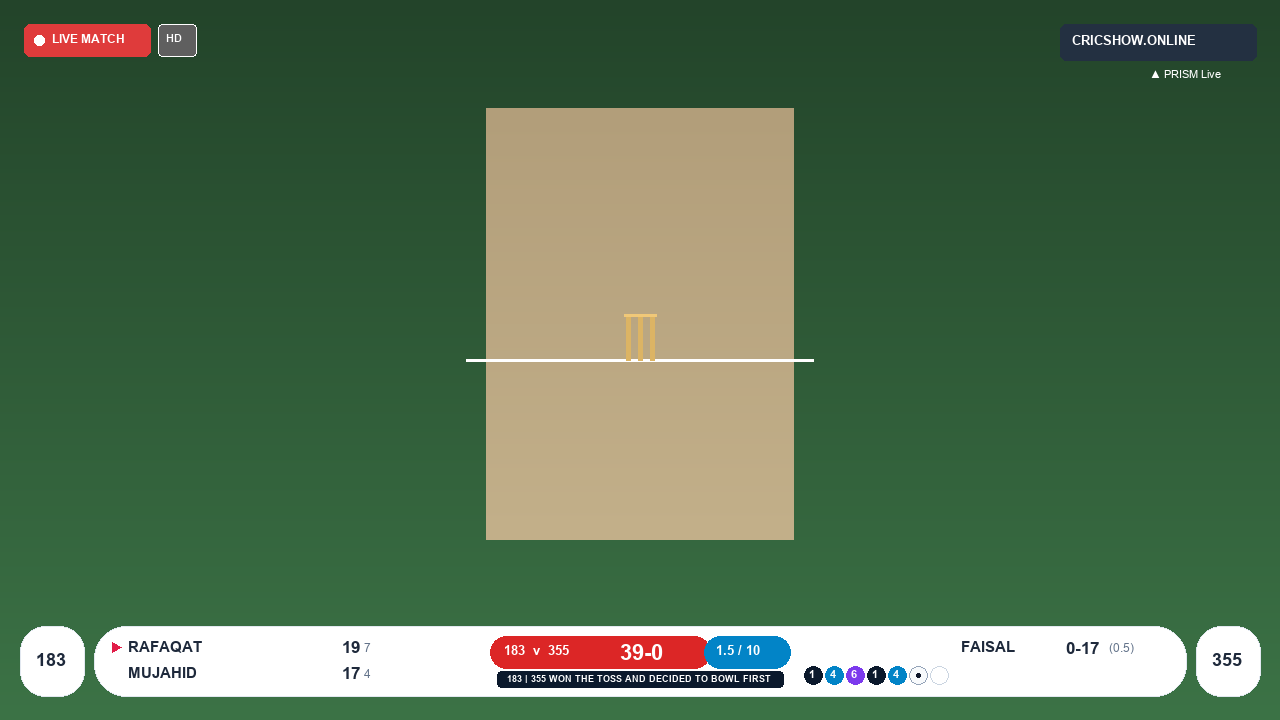
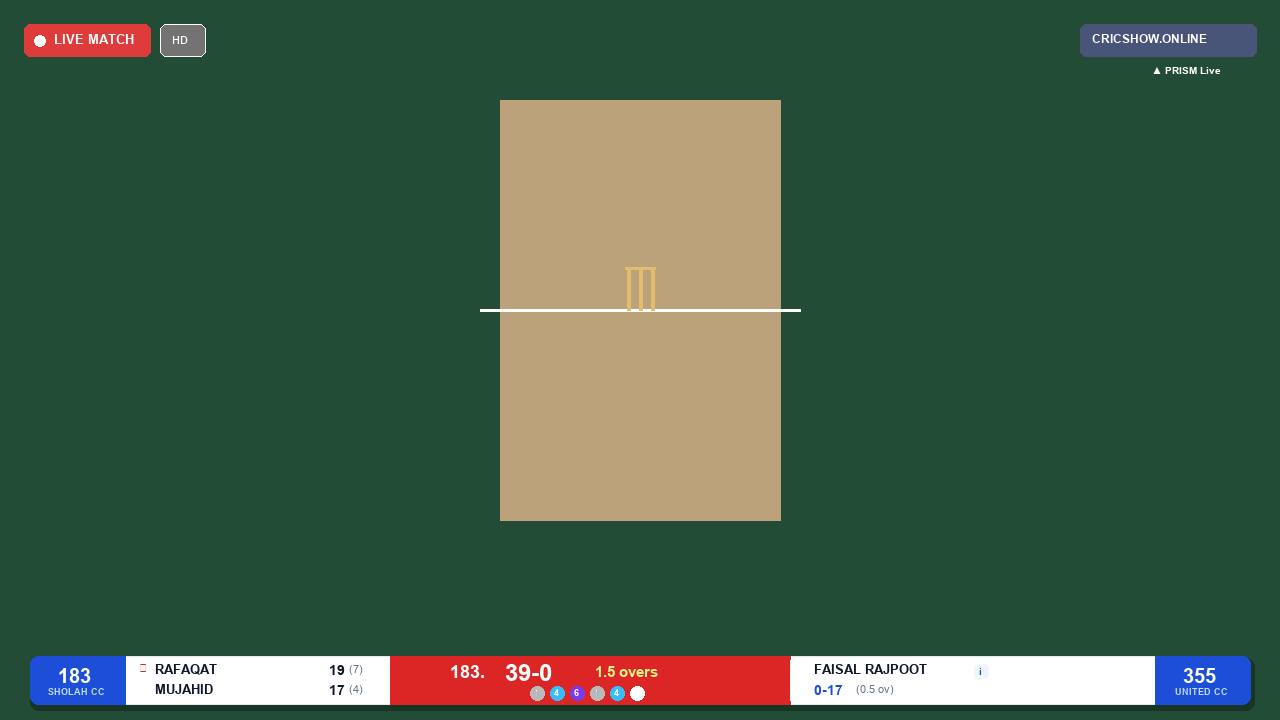
feat(broadcast): update broadcast bar with white-blue-red palette, side teams, and lower height

Changed region(s): [[0.0, 0.1222, 1.0, 1.0], [0.8125, 0.0306, 1.0, 0.1222], [0.0312, 0.0306, 0.1875, 0.0611]]

diff --git a/resources/views/embed/scoreboard.blade.php b/resources/views/embed/scoreboard.blade.php
@@ -127,67 +127,59 @@ html, body {
 .fade { transition: opacity .16s ease; }
 .fade.out { opacity: .45; }
 
-/* ══ broadcast — the full bottom bar ═══════════════════════════ */
+/* ══ broadcast — the full bottom bar (White, Blue, Red Theme) ═══════════════════════════ */
 
 [data-layout="broadcast"] body { padding: 0; }
 [data-layout="broadcast"] .board {
     display: flex; align-items: stretch;
-    height: 170px; max-width: 1920px;
-    border-radius: 14px; overflow: hidden;
+    height: 135px; max-width: 1920px;
+    border-radius: 12px; overflow: hidden;
+    background: #FFFFFF;
     box-shadow: 0 14px 44px rgba(0,0,0,.42);
+    border: 1px solid #E2E8F0;
 }
-.bc-team {
-    width: 300px; flex: 0 0 auto;
-    display: flex; flex-direction: column; justify-content: center; gap: 6px;
-    padding: 16px 22px; color: #fff;
-    background: linear-gradient(135deg, var(--team-colour, var(--accent)), rgba(9,17,28,.96));
+.bc-team-badge {
+    width: 220px; flex: 0 0 auto;
+    display: flex; flex-direction: column; justify-content: center; align-items: center; gap: 4px;
+    padding: 12px 18px; color: #FFFFFF;
+    background: #1D4ED8;
 }
-.bc-team.idle { background: var(--panel-2); }
-.bc-team .row  { display: flex; align-items: center; gap: 12px; }
-.bc-team .crest { width: 52px; height: 52px; font-size: 17px; background: rgba(255,255,255,.18); }
-.bc-team .code { font-size: 24px; font-weight: 900; letter-spacing: .6px; line-height: 1; }
-.bc-team .name { font-size: 12px; font-weight: 600; opacity: .8; margin-top: 3px;
-                 white-space: nowrap; overflow: hidden; text-overflow: ellipsis; }
-.bc-team .score { font-size: 42px; font-weight: 900; letter-spacing: -1.6px; line-height: 1; }
-.bc-team .overs { font-size: 14px; font-weight: 700; opacity: .78; }
-.bc-team .yet   { font-size: 15px; font-weight: 700; opacity: .68; }
+.bc-team-badge .code { font-size: 36px; font-weight: 900; letter-spacing: .6px; line-height: 1; }
+.bc-team-badge .name { font-size: 13px; font-weight: 700; opacity: .88; text-transform: uppercase;
+                 white-space: nowrap; overflow: hidden; text-overflow: ellipsis; max-width: 190px; }
 
-.bc-mid {
-    flex: 1; min-width: 0;
-    display: flex; flex-direction: column; justify-content: center; gap: 9px;
-    padding: 14px 26px; background: var(--panel); color: var(--panel-text);
-}
-.bc-mid .top    { display: flex; align-items: center; gap: 14px; }
-.bc-mid .status { flex: 0 0 auto; }
-.bc-mid .head   { font-size: 20px; font-weight: 800; letter-spacing: -.3px;
-                  white-space: nowrap; overflow: hidden; text-overflow: ellipsis; }
-.bc-mid .sub    { font-size: 14px; font-weight: 700; color: #FCD34D; }
-
-.bc-players { display: flex; gap: 26px; flex-wrap: wrap; }
-.bc-player  { display: flex; align-items: baseline; gap: 8px; font-size: 14px; }
-.bc-player .who  { font-weight: 700; color: #fff; }
-.bc-player .fig  { font-weight: 800; color: #6EE7B7; }
-.bc-player .role { font-size: 10px; font-weight: 800; letter-spacing: 1px;
-                   color: var(--panel-mute); text-transform: uppercase; }
-.bc-player.striker .who::after { content: ' ●'; color: #6EE7B7; font-size: 10px; }
-
-.bc-meta { display: flex; gap: 20px; flex-wrap: wrap; font-size: 12px; color: var(--panel-mute); }
-.bc-meta b { color: #fff; font-weight: 800; }
-
-.bc-right {
-    width: 250px; flex: 0 0 auto;
+.bc-batters {
+    flex: 1.25; min-width: 0;
     display: flex; flex-direction: column; justify-content: center; gap: 10px;
-    padding: 14px 20px; background: var(--panel-2); color: var(--panel-text);
-    border-left: 1px solid var(--panel-line);
+    padding: 12px 24px; background: #FFFFFF; color: #0F172A;
+    border-right: 1px solid #F1F5F9;
 }
-.bc-right .label { font-size: 10px; font-weight: 800; letter-spacing: 1.1px;
-                   color: var(--panel-mute); text-transform: uppercase; }
-.bc-overs { display: flex; gap: 6px; }
-.bc-over  { flex: 1; text-align: center; padding: 5px 0; border-radius: 7px;
-            background: rgba(255,255,255,.07); font-size: 12px; font-weight: 800; }
-.bc-over.wkt { background: rgba(239,68,68,.28); color: #FCA5A5; }
-.bc-over small { display: block; font-size: 8.5px; font-weight: 700;
-                 color: var(--panel-mute); margin-top: 1px; }
+.bc-batter { display: flex; align-items: center; justify-content: space-between; font-size: 19px; font-weight: 800; }
+.bc-batter .name { display: flex; align-items: center; gap: 6px; color: #0F172A; }
+.bc-batter.striker .name::before { content: '▶'; color: #DC2626; font-size: 14px; }
+.bc-batter .score { font-weight: 900; color: #0F172A; }
+.bc-batter .balls { font-size: 14px; font-weight: 700; color: #64748B; margin-left: 4px; }
+
+.bc-score-capsule {
+    flex: 1.45; min-width: 0;
+    display: flex; flex-direction: column; justify-content: center; align-items: center; gap: 6px;
+    padding: 12px 24px; background: #DC2626; color: #FFFFFF;
+}
+.bc-score-main { display: flex; align-items: baseline; gap: 10px; }
+.bc-score-team { font-size: 24px; font-weight: 900; color: rgba(255,255,255,.94); }
+.bc-score-val  { font-size: 46px; font-weight: 900; letter-spacing: -1.2px; line-height: 1; color: #FFFFFF; }
+.bc-score-ov   { font-size: 20px; font-weight: 800; color: #FEF08A; }
+.bc-score-sub  { font-size: 13px; font-weight: 800; color: rgba(255,255,255,.9); letter-spacing: .4px; }
+
+.bc-bowler {
+    flex: 1.15; min-width: 0;
+    display: flex; flex-direction: column; justify-content: center; gap: 8px;
+    padding: 12px 24px; background: #FFFFFF; color: #0F172A;
+    border-left: 1px solid #F1F5F9;
+}
+.bc-bowler .name { font-size: 18px; font-weight: 800; color: #0F172A; }
+.bc-bowler .fig  { font-size: 22px; font-weight: 900; color: #1D4ED8; }
+.bc-bowler .ov   { font-size: 14px; font-weight: 700; color: #64748B; margin-left: 4px; }
 
 /* ══ lower — compact third ═════════════════════════════════════ */
 
@@ -415,76 +407,69 @@ html, body {
     function renderBroadcast(d) {
         var c = d.current;
         var bat = battingSide(d);
+        var bTeam = d.teams[bat];
+        var bowlSide = (bat === 'home') ? 'away' : 'home';
+        var oTeam = d.teams[bowlSide];
 
-        var team = function (key) {
-            var t = d.teams[key];
-            var on = t.batting;
-            return '<div class="bc-team' + (on ? '' : ' idle') + '" style="--team-colour:' + esc(t.colour) + '">'
-                + '<div class="row">' + crest(t) + '<div style="min-width:0">'
-                +   '<div class="code">' + esc(t.short) + '</div>'
-                +   '<div class="name">' + esc(t.name) + '</div>'
-                + '</div></div>'
-                + '<div class="row">'
-                +   (t.score
-                        ? '<span class="score">' + esc(t.score) + '</span><span class="overs">(' + esc(t.overs) + ')</span>'
-                        : '<span class="yet">yet to bat</span>')
-                + '</div></div>';
-        };
+        // 1. Left Team (Batting Team)
+        var left = '<div class="bc-team-badge">'
+                 +   '<div class="code">' + esc(bTeam.short) + '</div>'
+                 +   '<div class="name">' + esc(bTeam.name) + '</div>'
+                 + '</div>';
 
-        var players = '';
+        // 2. Batters Section (2 batters with score and balls played)
+        var batters = '<div class="bc-batters">';
         if (c && c.striker) {
-            players += '<div class="bc-player striker"><span class="role">Bat</span>'
-                    +  '<span class="who">' + esc(c.striker.short) + '</span>'
-                    +  '<span class="fig">' + esc(c.striker.display) + '</span></div>';
+            batters += '<div class="bc-batter striker">'
+                    +    '<span class="name">' + esc(c.striker.short) + '</span>'
+                    +    '<span class="score">' + esc(c.striker.runs) + '<span class="balls">(' + esc(c.striker.balls) + ')</span></span>'
+                    +  '</div>';
+        } else {
+            batters += '<div class="bc-batter"><span class="name">Striker</span><span class="score">-</span></div>';
         }
         if (c && c.non_striker) {
-            players += '<div class="bc-player"><span class="role">Bat</span>'
-                    +  '<span class="who">' + esc(c.non_striker.short) + '</span>'
-                    +  '<span class="fig">' + esc(c.non_striker.display) + '</span></div>';
+            batters += '<div class="bc-batter">'
+                    +    '<span class="name" style="padding-left:14px">' + esc(c.non_striker.short) + '</span>'
+                    +    '<span class="score">' + esc(c.non_striker.runs) + '<span class="balls">(' + esc(c.non_striker.balls) + ')</span></span>'
+                    +  '</div>';
+        } else {
+            batters += '<div class="bc-batter"><span class="name" style="padding-left:14px">Non-Striker</span><span class="score">-</span></div>';
         }
+        batters += '</div>';
+
+        // 3. Center Red Capsule (Total Score & Overs with Batting Team name/code)
+        var scoreLine = (bTeam.score || '0-0').replace('/', '-');
+        var scoreCapsule = '<div class="bc-score-capsule">'
+                         +   '<div class="bc-score-main">'
+                         +     '<span class="bc-score-team">' + esc(bTeam.short) + '.</span>'
+                         +     '<span class="bc-score-val">' + esc(scoreLine) + '</span>'
+                         +     '<span class="bc-score-ov">' + esc(bTeam.overs || '0.0') + ' ov</span>'
+                         +   '</div>';
+        if (c && c.this_over && c.this_over.length) {
+            scoreCapsule += '<div class="balls" style="margin-top:2px">' + chips(c.this_over, 7) + '</div>';
+        } else {
+            scoreCapsule += '<div class="bc-score-sub">' + esc(d.status_line || (d.match.overs_per_side + ' OVERS MATCH')) + '</div>';
+        }
+        scoreCapsule += '</div>';
+
+        // 4. Bowler Figures Section
+        var bowler = '<div class="bc-bowler">';
         if (c && c.bowler) {
-            players += '<div class="bc-player"><span class="role">Bowl</span>'
-                    +  '<span class="who">' + esc(c.bowler.short) + '</span>'
-                    +  '<span class="fig">' + esc(c.bowler.line) + '</span></div>';
+            bowler += '<div class="name">' + esc(c.bowler.short) + '</div>'
+                   +  '<div class="fig">' + esc(c.bowler.wickets) + '-' + esc(c.bowler.runs)
+                   +  '<span class="ov">(' + esc(c.bowler.overs) + ')</span></div>';
+        } else {
+            bowler += '<div class="name">Bowler</div><div class="fig">0-0<span class="ov">(0.0)</span></div>';
         }
+        bowler += '</div>';
 
-        var meta = [];
-        var fact = function (label, value) { meta.push('<span>' + label + ' <b>' + value + '</b></span>'); };
-        if (c) {
-            fact('CRR', c.run_rate.toFixed(2));
-            if (c.required_rate != null && c.need > 0) fact('RRR', c.required_rate.toFixed(2));
-            if (c.partnership) fact('P\'ship', esc(c.partnership.display));
-            if (c.last_wicket) fact('Last wkt', esc(c.last_wicket.short + ' ' + c.last_wicket.runs));
-            if (c.projected)   fact('Proj', c.projected);
-            if (c.extras)      fact('Extras', c.extras);
-        }
+        // 5. Right Team (Bowling Team)
+        var right = '<div class="bc-team-badge">'
+                  +   '<div class="code">' + esc(oTeam.short) + '</div>'
+                  +   '<div class="name">' + esc(oTeam.name) + '</div>'
+                  + '</div>';
 
-        var right = '';
-        if (c) {
-            right = '<div><div class="label">This over</div><div class="balls" style="margin-top:7px">'
-                  + (chips(c.this_over, 8) || '<span style="font-size:12px;color:var(--panel-mute)">new over</span>')
-                  + '</div></div>';
-            if (c.recent_overs && c.recent_overs.length) {
-                right += '<div><div class="label">Recent overs</div><div class="bc-overs" style="margin-top:7px">'
-                       + c.recent_overs.map(function (o) {
-                             return '<div class="bc-over' + (o.wickets ? ' wkt' : '') + '">' + o.runs
-                                  + '<small>ov ' + o.over + '</small></div>';
-                         }).join('')
-                       + '</div></div>';
-            }
-        }
-
-        return team('home')
-            + '<div class="bc-mid">'
-            +   '<div class="top">' + statusPill(d)
-            +     '<span class="head">' + esc(d.headline) + '</span>'
-            +   '</div>'
-            +   (d.sub_headline ? '<div class="sub">' + esc(d.sub_headline) + '</div>' : '')
-            +   (players ? '<div class="bc-players">' + players + '</div>' : '')
-            +   (meta.length ? '<div class="bc-meta">' + meta.join('') + '</div>' : '')
-            + '</div>'
-            + team('away')
-            + (right ? '<div class="bc-right">' + right + '</div>' : '');
+        return left + batters + scoreCapsule + bowler + right;
     }
 
     /* ── lower third ───────────────────────────────────────── */

diff --git a/database/seeders/TeamSquadSeeder.php b/database/seeders/TeamSquadSeeder.php
@@ -630,6 +630,39 @@ class TeamSquadSeeder extends Seeder
                     ['name' => 'Muneeb Mehar',    'father_name' => null, 'is_captain' => false, 'is_vice_captain' => false, 'role' => 'bowler',      'jersey_number' => '25'],
                 ],
             ],
+            // ── Team 16: 214G -> Uqaab Eleven ──────────────────
+            '214G' => [
+                'team_name'    => 'Uqaab Eleven',
+                'village_name' => '214 Gujjar Abadi',
+                'description'  => 'Uqaab Eleven Cricket Club — 214 Gujjar Abadi',
+                'players'      => [
+                    ['name' => 'Azhar Ali',          'father_name' => 'Allah Yar',         'is_captain' => true,  'is_vice_captain' => false, 'role' => 'all_rounder', 'jersey_number' => '1'],
+                    ['name' => 'Muhammad Ilyas',     'father_name' => 'Sarfraz',           'is_captain' => false, 'is_vice_captain' => false, 'role' => 'batsman',     'jersey_number' => '2'],
+                    ['name' => 'Rehmat Ullah',       'father_name' => 'Mulazim Hussain',   'is_captain' => false, 'is_vice_captain' => false, 'role' => 'all_rounder', 'jersey_number' => '3'],
+                    ['name' => 'Muhammad Asif',      'father_name' => 'Rasheed',           'is_captain' => false, 'is_vice_captain' => false, 'role' => 'batsman',     'jersey_number' => '4'],
+                    ['name' => 'Kokab Javaid',       'father_name' => 'Ajmal Javaid',      'is_captain' => false, 'is_vice_captain' => false, 'role' => 'all_rounder', 'jersey_number' => '5'],
+                    ['name' => 'Shoaib Akhtar',      'father_name' => 'Soba Khan',         'is_captain' => false, 'is_vice_captain' => false, 'role' => 'bowler',      'jersey_number' => '6'],
+                    ['name' => 'Umar Hayat',         'father_name' => 'Zafar Iqbal',       'is_captain' => false, 'is_vice_captain' => false, 'role' => 'batsman',     'jersey_number' => '7'],
+                    ['name' => 'Sanwal',             'father_name' => 'Yousaf',            'is_captain' => false, 'is_vice_captain' => false, 'role' => 'bowler',      'jersey_number' => '8'],
+                    ['name' => 'Umaish Raza',        'father_name' => 'Pervaiz',           'is_captain' => false, 'is_vice_captain' => false, 'role' => 'all_rounder', 'jersey_number' => '9'],
+                    ['name' => 'Yasin',              'father_name' => 'Khizer Hayat',      'is_captain' => false, 'is_vice_captain' => false, 'role' => 'batsman',     'jersey_number' => '10'],
+                    ['name' => 'Asmat Ullah',        'father_name' => 'Sarfraz Ahmad',     'is_captain' => false, 'is_vice_captain' => false, 'role' => 'bowler',      'jersey_number' => '11'],
+                    ['name' => 'Naveed Khan',        'father_name' => 'Azam Khan',         'is_captain' => false, 'is_vice_captain' => false, 'role' => 'all_rounder', 'jersey_number' => '12'],
+                    ['name' => 'Faisal Hayat',       'father_name' => 'Haq Nawaz',         'is_captain' => false, 'is_vice_captain' => false, 'role' => 'batsman',     'jersey_number' => '13'],
+                    ['name' => 'Hamza Majeed',       'father_name' => 'Majeed',            'is_captain' => false, 'is_vice_captain' => false, 'role' => 'bowler',      'jersey_number' => '14'],
+                    ['name' => 'Ahsan',              'father_name' => 'M. Iqbal',          'is_captain' => false, 'is_vice_captain' => false, 'role' => 'all_rounder', 'jersey_number' => '15'],
+                    ['name' => 'Ali Usman',          'father_name' => 'Ghulam Dastageer',  'is_captain' => false, 'is_vice_captain' => false, 'role' => 'batsman',     'jersey_number' => '16'],
+                    ['name' => 'Ali Hassan',         'father_name' => 'Umar Hayat',        'is_captain' => false, 'is_vice_captain' => false, 'role' => 'bowler',      'jersey_number' => '17'],
+                    ['name' => 'Arshad',             'father_name' => 'Jahangeer',         'is_captain' => false, 'is_vice_captain' => false, 'role' => 'all_rounder', 'jersey_number' => '18'],
+                    ['name' => 'Subhan',             'father_name' => 'Abid Hussain',      'is_captain' => false, 'is_vice_captain' => false, 'role' => 'batsman',     'jersey_number' => '19'],
+                    ['name' => 'Usman',              'father_name' => 'Abdulroof',         'is_captain' => false, 'is_vice_captain' => false, 'role' => 'bowler',      'jersey_number' => '20'],
+                    ['name' => 'Mehmood Ul Hassan',  'father_name' => 'Khakaan Ahmad',     'is_captain' => false, 'is_vice_captain' => false, 'role' => 'all_rounder', 'jersey_number' => '21'],
+                    ['name' => 'Farhat',             'father_name' => 'Nasir Hussain',     'is_captain' => false, 'is_vice_captain' => false, 'role' => 'batsman',     'jersey_number' => '22'],
+                    ['name' => 'Ansar',              'father_name' => 'Mumtaz Hussain',    'is_captain' => false, 'is_vice_captain' => false, 'role' => 'bowler',      'jersey_number' => '23'],
+                    ['name' => 'Ghulam Sarwar',      'father_name' => 'Ghulam Akbar',      'is_captain' => false, 'is_vice_captain' => false, 'role' => 'all_rounder', 'jersey_number' => '24'],
+                    ['name' => 'Farhan',             'father_name' => 'Muhammad Ali',      'is_captain' => false, 'is_vice_captain' => false, 'role' => 'batsman',     'jersey_number' => '25'],
+                ],
+            ],
         ];
 
         foreach ($teamsData as $code => $data) {

diff --git a/database/seeders/TeamSeeder.php b/database/seeders/TeamSeeder.php
@@ -26,7 +26,7 @@ class TeamSeeder extends Seeder
             ['name' => 'Team 213',       'village_name' => 'Village 213',       'short_code' => '213',   'primary_color' => '#0c4a6e', 'secondary_color' => '#0ea5e9'],
             ['name' => '786 GM Cricket Club', 'village_name' => 'Village 786GM', 'short_code' => '786GM', 'primary_color' => '#4c1d95', 'secondary_color' => '#8b5cf6'],
             ['name' => 'Sholah Cricket Club', 'village_name' => 'Village 183',  'short_code' => '183',   'primary_color' => '#78350f', 'secondary_color' => '#f59e0b'],
-            ['name' => 'Team 214G',      'village_name' => 'Village 214G',      'short_code' => '214G',  'primary_color' => '#0f766e', 'secondary_color' => '#2dd4bf'],
+            ['name' => 'Uqaab Eleven',   'village_name' => '214 Gujjar Abadi',  'short_code' => '214G',  'primary_color' => '#1e3a8a', 'secondary_color' => '#d4af37'],
             ['name' => 'Shaheen Cricket Club', 'village_name' => 'Village 449', 'short_code' => '449', 'primary_color' => '#b91c1c', 'secondary_color' => '#f97316'],
             ['name' => 'Ghazi Cricket Club', 'village_name' => 'Village 305',  'short_code' => '305',   'primary_color' => '#0f172a', 'secondary_color' => '#334155'],
         ];

diff --git a/app/Http/Controllers/EmbedController.php b/app/Http/Controllers/EmbedController.php
@@ -46,7 +46,7 @@ class EmbedController extends Controller
     public const SPECS = [
         'broadcast' => [
             'label'  => 'Broadcast bar',
-            'width'  => 1920, 'height' => 180,
+            'width'  => 1920, 'height' => 140,
             'blurb'  => 'The full bottom bar — both sides, batters, bowler, this over and recent overs. What a televised match puts on screen.',
             'best'   => 'Live streaming, full width',
             'stream' => true,
